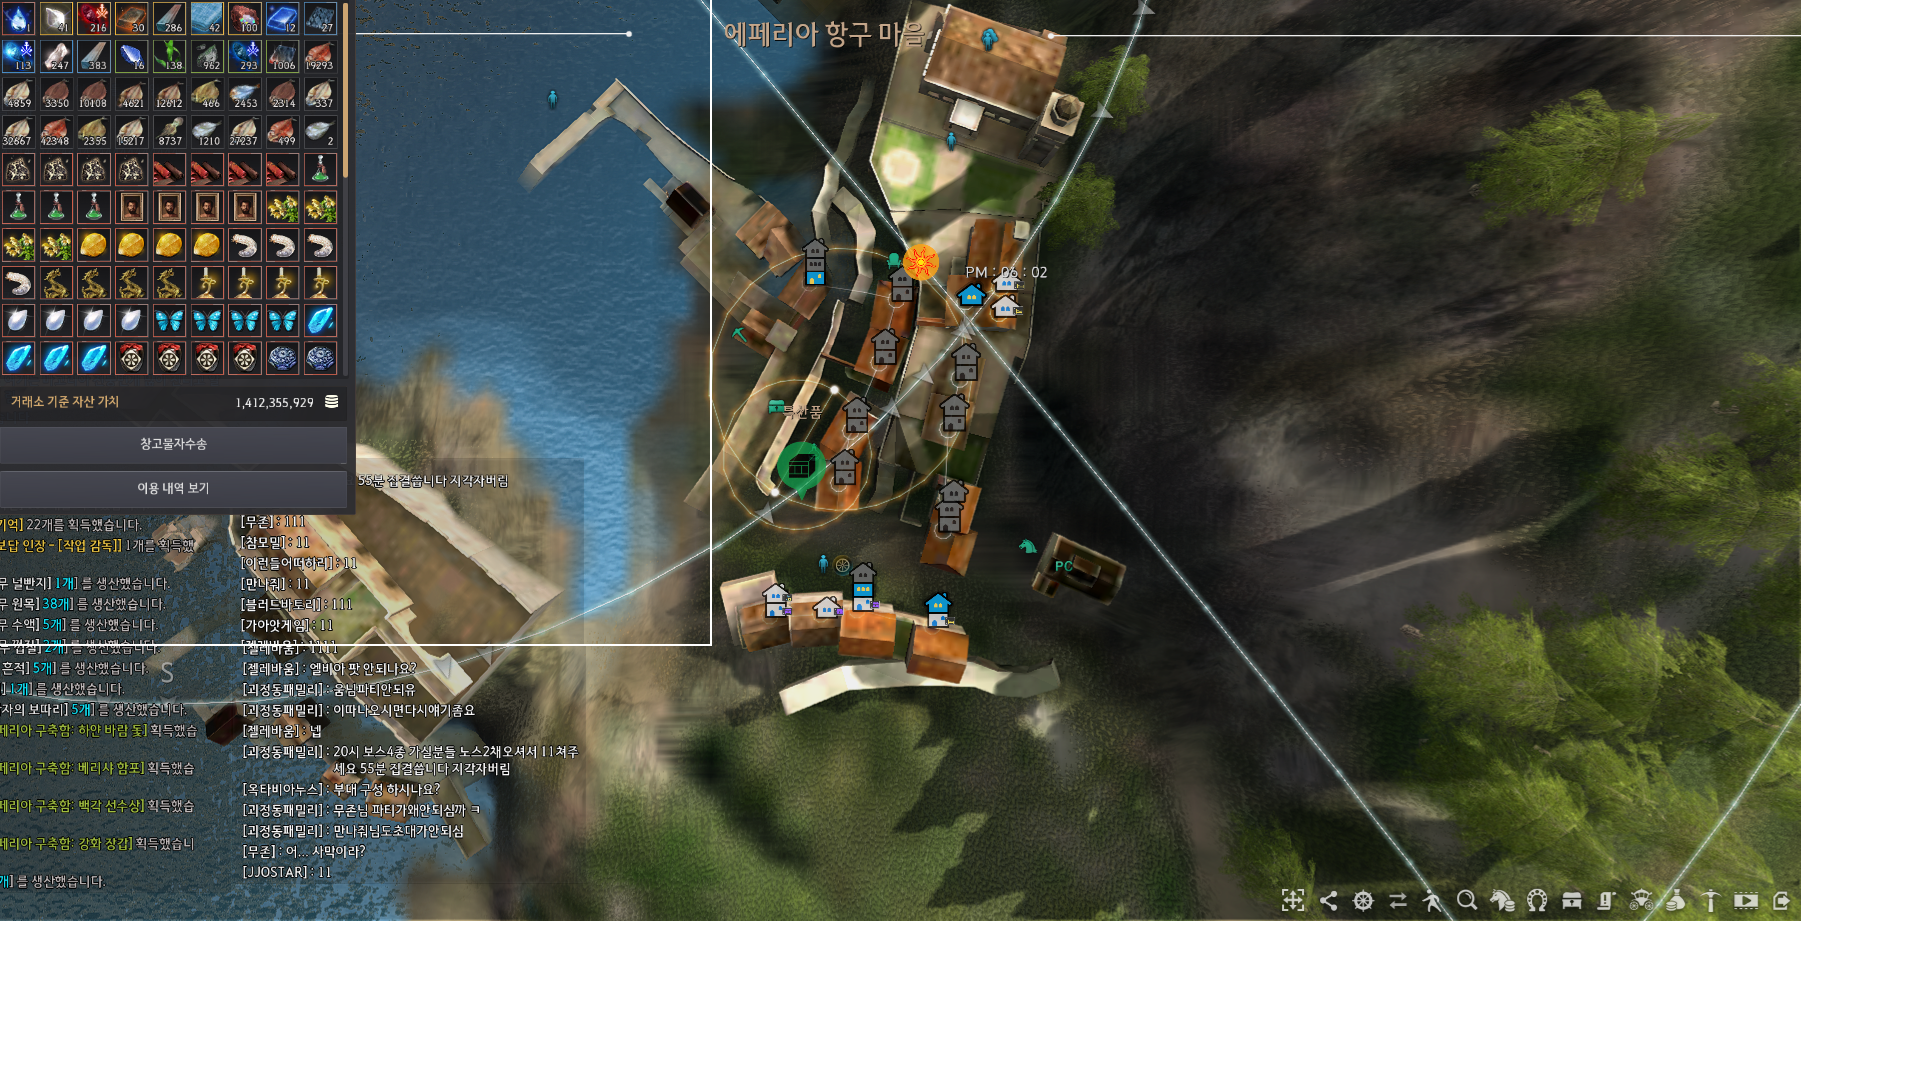
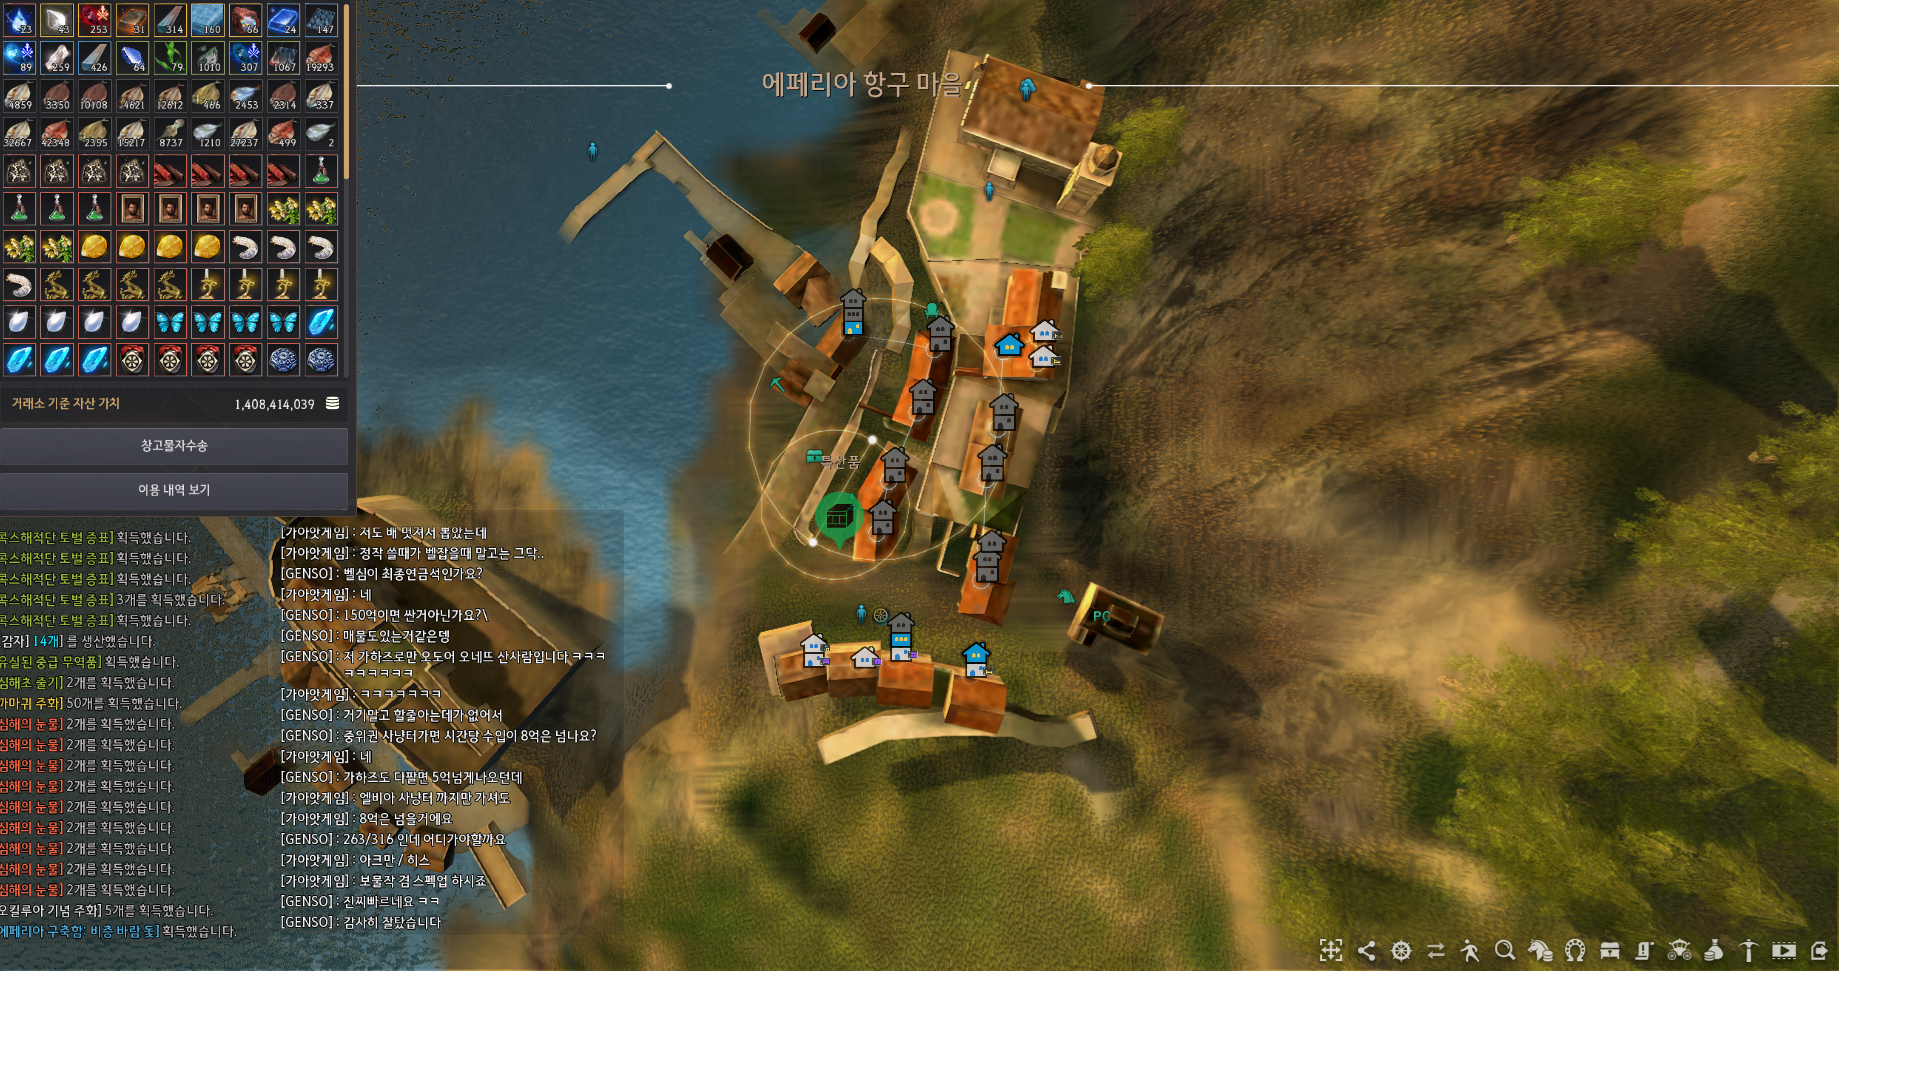
ㄴㅇㄹ

diff --git a/black_해역사진.html b/black_해역사진.html
@@ -419,23 +419,23 @@
 
       <div id="파템재료_일퀘개수" class="d-inline-block 재료높이" style="vertical-align: top;">
         <div><button></button><button style="font-size: 14px;line-height: 16px;">일퀘개수</button><button title="파템재료_일퀘개수">보유</button><button>메모</button></div>
-        <div><button class="에페리아창고사진일부분" style="background-position: -2px -2px;"></button><button>1</button><button    class="노랑">1</button><button>[일일] 어린 <span class="a_형식">검은무쇠이빨</span> 1개</button></div><!-- 심해의 눈물 1-->
-        <div><button class="에페리아창고사진일부분" style="background-position: -2px -2px;"></button><button>물교</button><button class="노랑">41</button><button>물교 1개</button></div><!-- 화려한 진주 결정-->
-        <div><button class="에페리아창고사진일부분" style="background-position: -2px -2px;"></button><button>3</button><button    class="노랑">216</button><button>[병사] 3개</button></div><!-- 콕스유물 전투 -->
-        <div><button class="에페리아창고사진일부분" style="background-position: -2px -2px;"></button><button>물교</button><button class="노랑">30</button><button>물교 1개</button></div><!-- 화려한 암염 주괴-->
-        <div><button class="에페리아창고사진일부분" style="background-position: -2px -2px;"></button><button>3</button><button    class="노랑">286</button><button>[병사] 3개 (짙은 파도빛)</button></div><!--짙은 파도빛이 감도는 규격 각목 3 -->
-        <div><button class="에페리아창고사진일부분" style="background-position: -2px -2px;"></button><button>3</button><button    class="노랑">42</button><button>[나루터지기]어린 나인샤크 3개</button></div><!-- 달의 핏줄이 새겨진 아마포 3-->
-        <div><button class="에페리아창고사진일부분" style="background-position: -2px -2px;"></button><button>2</button><button    class="노랑">100</button><button>[큐리오]2개</button></div><!-- 홍조빛 해저 단괴-->
-        <div><button class="에페리아창고사진일부분" style="background-position: -2px -2px;"></button><button>물교</button><button class="노랑">12</button><button>물교 1개</button></div><!--빛나는 코발트주괴 -->
-        <div><button class="에페리아창고사진일부분" style="background-position: -2px -2px;"></button><button>10</button><button    class="노랑">27</button><button>[나루터지기]어린 칸디둠 10개</button></div><!-- 달의 비늘이 새겨진 합판-->
-        <div><button class="에페리아창고사진일부분" style="background-position: -2px -2px;"></button><button>1</button><button    class="노랑">113</button><button>협상 상급 [물교퀘] 1개</button></div><!-- 콕스유물 상급-->
-        <div><button class="에페리아창고사진일부분" style="background-position: -2px -2px;"></button><button>2</button><button    class="노랑">247</button><button>[물교퀘] 2개</button></div><!-- 순수한 진주결정-->
-        <div><button class="에페리아창고사진일부분" style="background-position: -2px -2px;"></button><button>3</button><button    class="노랑">383</button><button>[병사] 3개 (파도빛)</button></div><!--파도빛이 감도는 규격 각목 -->
-        <div><button class="에페리아창고사진일부분" style="background-position: -2px -2px;"></button><button>물교</button><button class="노랑">16</button><button>물교 3개</button></div><!-- 대양의 견고한 현철-->
-        <div><button class="에페리아창고사진일부분" style="background-position: -2px -2px;"></button><button>4</button><button    class="노랑">138</button><button>[큐리오] 4개</button></div><!-- 심해초 줄기-->
-        <div><button class="에페리아창고사진일부분" style="background-position: -2px -2px;"></button><button>8</button><button    class="노랑">962</button><button>[물교퀘] 8개</button></div><!-- 순수한 암초조각-->
-        <div><button class="에페리아창고사진일부분" style="background-position: -2px -2px;"></button><button>3</button><button    class="노랑">293</button><button>협상 하급 [물교퀘] 1개</button></div><!-- 콕스유물 하급-->
-        <div><button class="에페리아창고사진일부분" style="background-position: -2px -2px;"></button><button>10</button><button    class="노랑">1006</button><button>[물교퀘] 10개</button></div><!--강화된 섬나무 증착합판 -->
+        <div><button class="에페리아창고사진일부분" style="background-position: -2px -2px;"></button><button>1</button><button    class="노랑">23</button><button>[일일] 어린 <span class="a_형식">검은무쇠이빨</span> 1개</button></div><!-- 심해의 눈물 1-->
+        <div><button class="에페리아창고사진일부분" style="background-position: -2px -2px;"></button><button>물교</button><button class="노랑">43</button><button>물교 1개</button></div><!-- 화려한 진주 결정-->
+        <div><button class="에페리아창고사진일부분" style="background-position: -2px -2px;"></button><button>3</button><button    class="노랑">253</button><button>[병사] 3개</button></div><!-- 콕스유물 전투 -->
+        <div><button class="에페리아창고사진일부분" style="background-position: -2px -2px;"></button><button>물교</button><button class="노랑">31</button><button>물교 1개</button></div><!-- 화려한 암염 주괴-->
+        <div><button class="에페리아창고사진일부분" style="background-position: -2px -2px;"></button><button>3</button><button    class="노랑">314</button><button>[병사] 3개 (짙은 파도빛)</button></div><!--짙은 파도빛이 감도는 규격 각목 3 -->
+        <div><button class="에페리아창고사진일부분" style="background-position: -2px -2px;"></button><button>3</button><button    class="노랑">160</button><button>[나루터지기]어린 나인샤크 3개</button></div><!-- 달의 핏줄이 새겨진 아마포 3-->
+        <div><button class="에페리아창고사진일부분" style="background-position: -2px -2px;"></button><button>2</button><button    class="노랑">66</button><button>[큐리오]2개</button></div><!-- 홍조빛 해저 단괴-->
+        <div><button class="에페리아창고사진일부분" style="background-position: -2px -2px;"></button><button>물교</button><button class="노랑">24</button><button>물교 1개</button></div><!--빛나는 코발트주괴 -->
+        <div><button class="에페리아창고사진일부분" style="background-position: -2px -2px;"></button><button>10</button><button    class="노랑">147</button><button>[나루터지기]어린 칸디둠 10개</button></div><!-- 달의 비늘이 새겨진 합판-->
+        <div><button class="에페리아창고사진일부분" style="background-position: -2px -2px;"></button><button>1</button><button    class="노랑">89</button><button>협상 상급 [물교퀘] 1개</button></div><!-- 콕스유물 상급-->
+        <div><button class="에페리아창고사진일부분" style="background-position: -2px -2px;"></button><button>2</button><button    class="노랑">259</button><button>[물교퀘] 2개</button></div><!-- 순수한 진주결정-->
+        <div><button class="에페리아창고사진일부분" style="background-position: -2px -2px;"></button><button>3</button><button    class="노랑">426</button><button>[병사] 3개 (파도빛)</button></div><!--파도빛이 감도는 규격 각목 -->
+        <div><button class="에페리아창고사진일부분" style="background-position: -2px -2px;"></button><button>물교</button><button class="노랑">64</button><button>물교 3개</button></div><!-- 대양의 견고한 현철-->
+        <div><button class="에페리아창고사진일부분" style="background-position: -2px -2px;"></button><button>4</button><button    class="노랑">79</button><button>[큐리오] 4개</button></div><!-- 심해초 줄기-->
+        <div><button class="에페리아창고사진일부분" style="background-position: -2px -2px;"></button><button>8</button><button    class="노랑">1010</button><button>[물교퀘] 8개</button></div><!-- 순수한 암초조각-->
+        <div><button class="에페리아창고사진일부분" style="background-position: -2px -2px;"></button><button>3</button><button    class="노랑">307</button><button>협상 하급 [물교퀘] 1개</button></div><!-- 콕스유물 하급-->
+        <div><button class="에페리아창고사진일부분" style="background-position: -2px -2px;"></button><button>10</button><button    class="노랑">1067</button><button>[물교퀘] 10개</button></div><!--강화된 섬나무 증착합판 -->
       </div>
     </div>
   </div>
